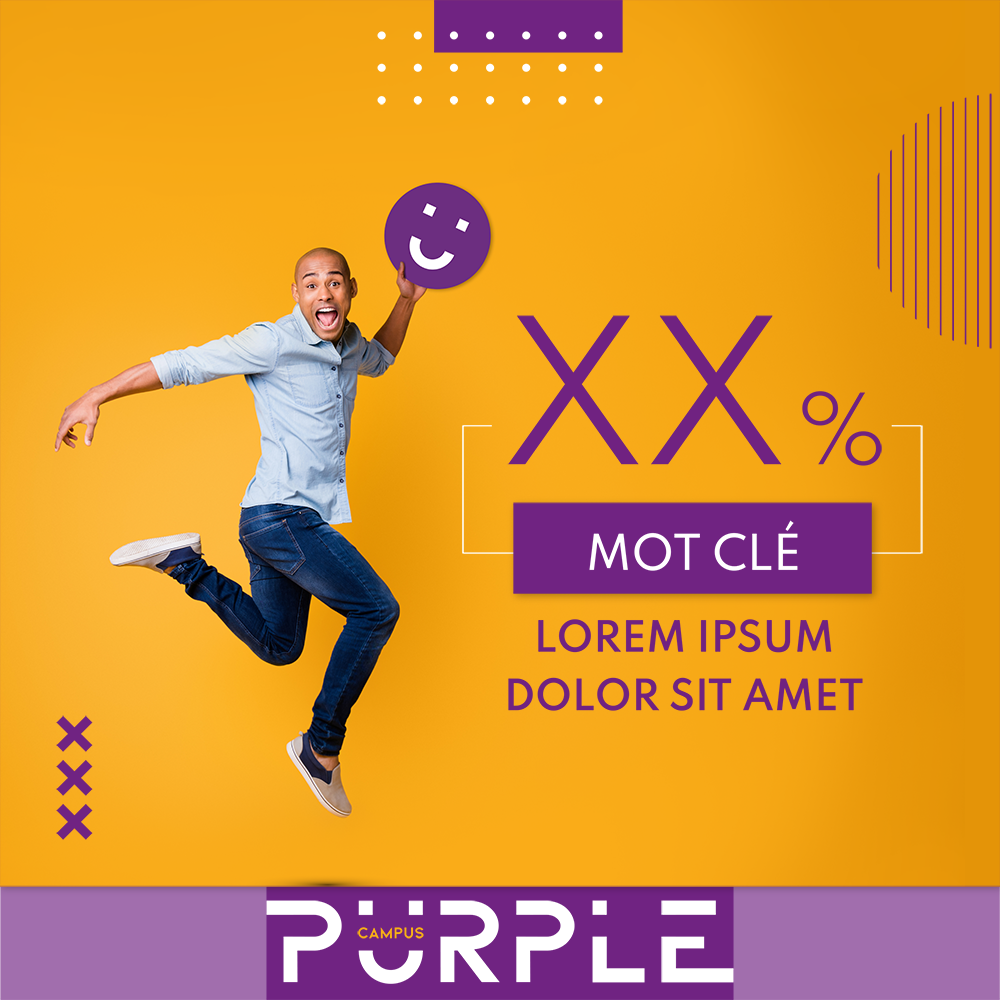
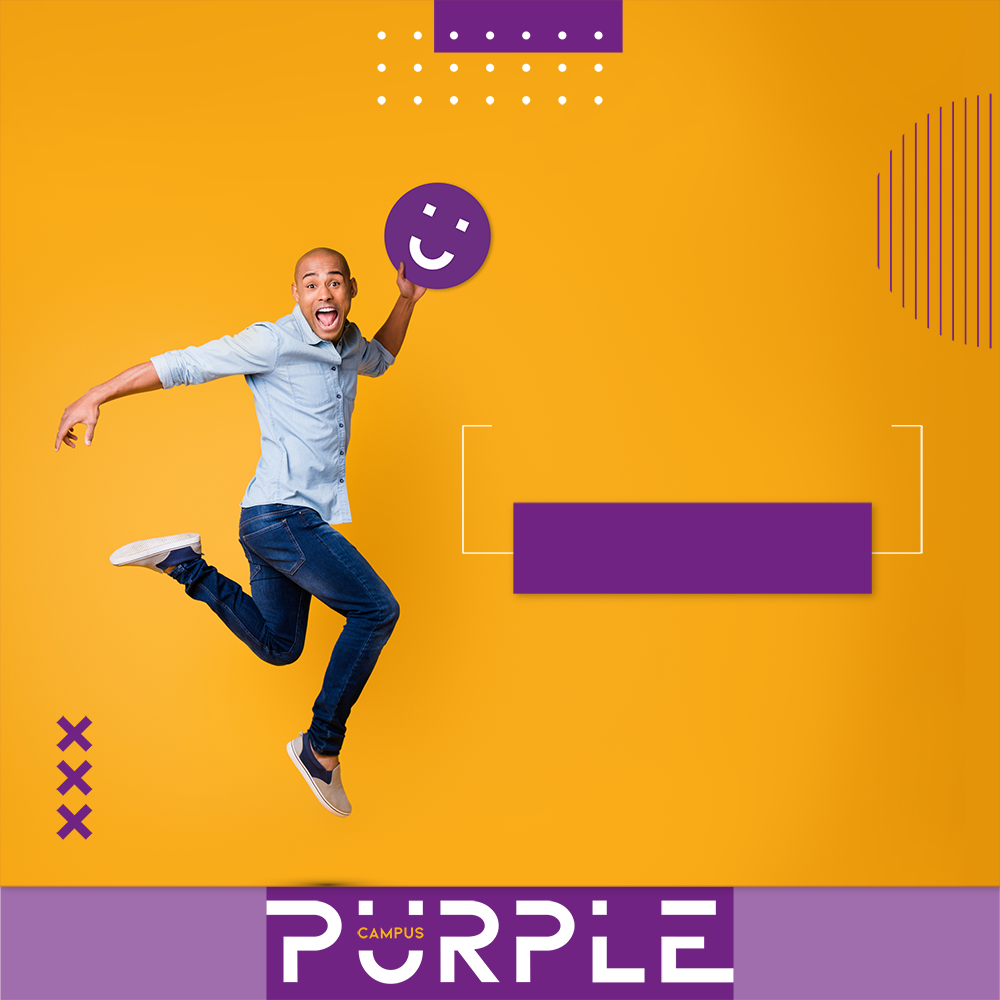
Template 2 clean

diff --git a/src/app/templates/template2/template2.component.html b/src/app/templates/template2/template2.component.html
@@ -4,23 +4,45 @@
 
 <section id="top">
   <div id="generated-bloc">
-    {{ templateGroup.value.image }}
-    {{ templateGroup.value.number }}
-    {{ templateGroup.value.keywork }}
-    {{ templateGroup.value.text }}
+    <img src="assets/img/template2/chiffre-clef-{{ templateGroup.value.color }}.png" alt="" />
+    <div class="text {{ templateGroup.value.color }}" [ngClass]="templateGroup.value.image ? 'image' : 'brut'">
+      <span [style.fontSize]="sizeText + 'px'">
+        {{ templateGroup.value.text }}
+      </span>
+    </div>
+    <div class="number {{ templateGroup.value.color }}" [ngClass]="templateGroup.value.image ? 'image' : 'brut'">
+      <span [style.fontSize]="sizeNumber + 'px'">
+        {{ templateGroup.value.number }}
+      </span>
+    </div>
+    <div class="keyword {{ templateGroup.value.color }}" [ngClass]="templateGroup.value.image ? 'image' : 'brut'">
+      <span [style.fontSize]="sizeKeyword + 'px'">
+        {{ templateGroup.value.keyword }}
+      </span>
+    </div>
   </div>
 </section>
 
 <section id="bottom" [formGroup]="templateGroup">
-  <mat-tab-group mat-align-tabs="center" animationDuration="0s" dynamicHeight color="primary">
+  <mat-tab-group mat-align-tabs="center" animationDuration="0s" color="primary">
     <mat-tab label="Image">
       <mat-radio-group formControlName="image">
         <mat-radio-button [value]="false" color="primary">Sans photo</mat-radio-button>
         <mat-radio-button [value]="true" color="primary">Avec photo</mat-radio-button>
       </mat-radio-group>
-      <mat-radio-group formControlName="color">
-        <mat-radio-button [value]="false" color="primary">Sans photo</mat-radio-button>
-        <mat-radio-button [value]="true" color="primary">Avec photo</mat-radio-button>
+      <mat-radio-group formControlName="color" *ngIf="templateGroup.value.image">
+        <mat-radio-button [value]="Template2Background.IMAGE_PURPLE" color="primary">Photo violette</mat-radio-button>
+        <mat-radio-button [value]="Template2Background.IMAGE_YELLOW" color="primary">Photo jaune</mat-radio-button>
+      </mat-radio-group>
+
+      <mat-radio-group formControlName="color" *ngIf="!templateGroup.value.image">
+        <mat-radio-button [value]="Template2Background.BRUT_PURPLE" color="primary">
+          Arrière-plan violet
+        </mat-radio-button>
+        <mat-radio-button [value]="Template2Background.BRUT_YELLOW" color="primary">
+          Arrière-plan jaune
+        </mat-radio-button>
+        <mat-radio-button [value]="Template2Background.BRUT_WHITE" color="primary">Arrière-plan blanc</mat-radio-button>
       </mat-radio-group>
     </mat-tab>
     <mat-tab label="Chiffre">
@@ -28,18 +50,51 @@
         <mat-label>Chiffre</mat-label>
         <input matInput placeholder="50%" formControlName="number" />
       </mat-form-field>
+      <div class="slider">
+        <mat-slider
+          (change)="materSliderInput($event, 'number')"
+          thumbLabel
+          min="40"
+          max="80"
+          step="1"
+          [value]="sizeNumber"
+          color="primary"
+        ></mat-slider>
+      </div>
     </mat-tab>
     <mat-tab label="Mot Clé">
       <mat-form-field class="example-full-width">
         <mat-label>Chiffre</mat-label>
         <input matInput placeholder="Mot Clé" formControlName="keyword" />
       </mat-form-field>
+      <div class="slider">
+        <mat-slider
+          (change)="materSliderInput($event, 'keyword')"
+          thumbLabel
+          min="10"
+          max="40"
+          step="1"
+          [value]="sizeKeyword"
+          color="primary"
+        ></mat-slider>
+      </div>
     </mat-tab>
     <mat-tab label="Texte">
       <mat-form-field class="example-full-width">
         <mat-label>Chiffre</mat-label>
-        <input matInput placeholder="Votre texte ..." formControlName="text" />
+        <textarea matInput placeholder="Votre texte ..." formControlName="text" maxlength="164"></textarea>
       </mat-form-field>
+      <div class="slider">
+        <mat-slider
+          (change)="materSliderInput($event, 'text')"
+          thumbLabel
+          min="10"
+          max="35"
+          step="1"
+          [value]="sizeText"
+          color="primary"
+        ></mat-slider>
+      </div>
     </mat-tab>
   </mat-tab-group>
 </section>

diff --git a/src/app/templates/template2/template2.component.ts b/src/app/templates/template2/template2.component.ts
@@ -1,26 +1,53 @@
 import { Component, OnInit } from '@angular/core';
 import { ActivatedRoute } from '@angular/router';
 import { FormBuilder } from '@angular/forms';
+import { MatSliderChange } from '@angular/material/slider';
+
+export enum Template2Background {
+  IMAGE_PURPLE = 'image-purple',
+  IMAGE_YELLOW = 'image-yellow',
+  BRUT_YELLOW = 'brut-yellow',
+  BRUT_PURPLE = 'brut-purple',
+  BRUT_WHITE = 'brut-white',
+}
 
 @Component({
   selector: 'cci-template2',
   templateUrl: './template2.component.html',
-  styleUrls: ['./template2.component.scss']
+  styleUrls: ['./template2.component.scss'],
 })
 export class Template2Component implements OnInit {
-  title = this.route.snapshot.data['title']
+  title = this.route.snapshot.data['title'];
+  sizeNumber = 32;
+  sizeKeyword = 20;
+  sizeText = 20;
+  Template2Background = Template2Background;
 
   templateGroup = this.fb.group({
     image: [false],
-    color: [false],
+    color: [Template2Background.BRUT_PURPLE],
     number: ['50%'],
     keyword: ['Mot Clé'],
-    text: ['Votre texte ...']
+    text: ['Votre texte ...'],
   });
 
-  constructor(private route: ActivatedRoute, private fb: FormBuilder) { }
+  constructor(private route: ActivatedRoute, private fb: FormBuilder) {}
 
   ngOnInit(): void {
+    this.templateGroup.controls['image'].valueChanges.subscribe((e) => {
+      if (this.templateGroup.value.image) {
+        this.templateGroup.controls['color'].setValue(this.Template2Background.BRUT_PURPLE);
+      } else {
+        this.templateGroup.controls['color'].setValue(this.Template2Background.IMAGE_PURPLE);
+      }
+    });
   }
 
+  materSliderInput(event: MatSliderChange, fromSlider: string) {
+    fromSlider === 'text' ? this.sizeText = event.value : '';
+    fromSlider === 'keyword' ? this.sizeKeyword = event.value: '';
+    fromSlider === 'number' ? this.sizeNumber = event.value : '';
+    console.log(event.value);
+    console.log(this.sizeText);
+  }
 }

diff --git a/src/app/templates/template2/template2.component.scss b/src/app/templates/template2/template2.component.scss
@@ -1,5 +1,74 @@
+@import 'src/styles';
+
 :host ::ng-deep .mat-tab-body-wrapper {
   height: 15vh;
   display: flex;
-  align-items: center;
+  margin-top: 15px;
+}
+
+mat-radio-group {
+  margin-top: 10px;
+  display: flex;
+  mat-radio-button {
+    margin-left: 15px;
+  }
+}
+
+#generated-bloc {
+  .number {
+    color: $primary;
+    &[class*='purple'] {
+      color: $white;
+    }
+    &.image {
+      width: 221px;
+      height: 40px;
+      left: 49%;
+      top: 39%;
+    }
+    &.brut {
+      width: 250px;
+      height: 43px;
+      top: 33%;
+      left: 27%;
+    }
+  }
+
+  .keyword {
+    color: $white;
+    &[class*='purple'] {
+      color: $primary;
+    }
+    &.image {
+      width: 199px;
+      height: 54px;
+      top: 49%;
+      left: 51%;
+    }
+    &.brut {
+      width: 261px;
+      height: 69px;
+      top: 47%;
+      left: 26%;
+    }
+  }
+
+  .text {
+    color: $primary;
+    line-height: 1;
+    &[class*='purple'] {
+      color: $white;
+    }
+    overflow: hidden;
+    width: 261px;
+    height: 90px;
+    &.image {
+      top: 61%;
+      left: 44%;
+    }
+    &.brut {
+      left: 27%;
+      top: 63%;
+    }
+  }
 }

diff --git a/src/app/app.module.ts b/src/app/app.module.ts
@@ -15,6 +15,7 @@ import { MatTabsModule } from '@angular/material/tabs';
 import { MatRadioModule } from '@angular/material/radio';
 import { ReactiveFormsModule } from '@angular/forms';
 import { MatInputModule } from '@angular/material/input';
+import { MatSliderModule } from '@angular/material/slider';
 
 @NgModule({
   declarations: [
@@ -27,7 +28,7 @@ import { MatInputModule } from '@angular/material/input';
     Template5Component,
     Template6Component,
   ],
-  imports: [BrowserModule, AppRoutingModule, BrowserAnimationsModule, MatTabsModule, MatRadioModule, ReactiveFormsModule, MatInputModule],
+  imports: [BrowserModule, AppRoutingModule, BrowserAnimationsModule, MatTabsModule, MatRadioModule, ReactiveFormsModule, MatInputModule, MatSliderModule],
   providers: [],
   bootstrap: [AppComponent],
 })

diff --git a/src/styles/_section-top.scss b/src/styles/_section-top.scss
@@ -1,13 +1,24 @@
 section#top {
-  width: 50vw;
-  height: 50vh;
-  //border: 1px solid red;
+  position: relative;
+  width: 550px;
+  height: 550px;
+  //height: 55vh;
   margin: 0 auto;
 
   #generated-bloc {
-    width: 100%;
-    height: 100%;
-    border: 1px solid blue;
-
+    position: relative;
+    > div {
+      position: absolute;
+      display: flex;
+      align-items: center;
+      justify-content: center;
+      }
+      img {
+        width: 100%;
+        height: 100%;
+      }
+      span {
+        text-align: center;
+    }
   }
 }

diff --git a/src/index.html b/src/index.html
@@ -1,11 +1,11 @@
 <!doctype html>
-<html lang="en">
+<html lang="fr">
 <head>
   <meta charset="utf-8">
   <title>Template CCI</title>
   <base href="/">
   <meta name="viewport" content="width=device-width, initial-scale=1">
-  <link rel="icon" type="image/x-icon" href="favicon.ico">
+  <link rel="icon" type="image/x-icon" href="favicon.png">
   <link href="https://fonts.googleapis.com/css?family=Roboto:300,400,500&display=swap" rel="stylesheet">
   <link href="https://fonts.googleapis.com/icon?family=Material+Icons" rel="stylesheet">
 </head>

diff --git a/src/styles/_section-bottom.scss b/src/styles/_section-bottom.scss
@@ -2,9 +2,20 @@ section#bottom {
   position: fixed;
   left: 50%;
   transform: translate(-50%, 0);
-  bottom : 0;
-  width: 80vw;
+  bottom: 0;
+  width: 60vw;
   height: 30vh;
   //border: 1px solid red;
 
+  .example-full-width {
+    width: 100%;
+  }
+
+  div.slider {
+    text-align: center;
+    margin-top: 15px;
+    mat-slider {
+      width: 80%;
+    }
+  }
 }

diff --git a/src/styles/_global.scss b/src/styles/_global.scss
@@ -1,9 +1,13 @@
 body {
   overflow: hidden;
+  background-image: url('/assets/img/cercle-raye.svg');
+  background-repeat: repeat-y;
+  background-size: cover;
+  background-color: #dad8d8;
 }
 
 .layout {
-  margin-top: 60px;
+  margin-top: 30px;
 }
 
 .sections-title {

diff --git a/src/styles/_variables.scss b/src/styles/_variables.scss
@@ -1,6 +1,7 @@
 // color basics
 $primary: #702382;
 $second: #f9b214;
+$white: white;
 //$tertiary: yellow;
 
 $bg-body: white;
